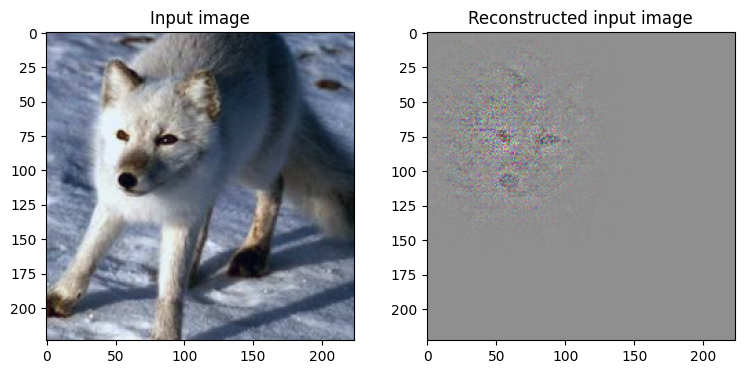
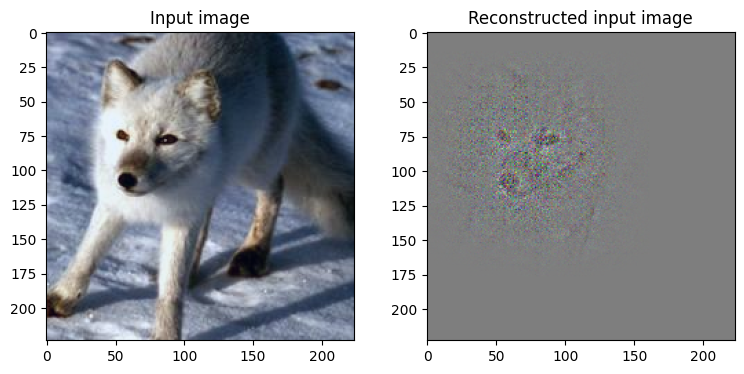
update

Changed region(s): [[0.5565, 0.1176, 0.8347, 0.6765]]

diff --git a/README.md b/README.md
@@ -4,4 +4,5 @@
 - Implementation: https://www.kaggle.com/code/thaimeuu/visualizing-zeiler-2013-implementation
 - Result:
 
+![text](images/dog1.png) ![text](images/dog2.png) ![text](images/dog3.png) ![text](images/dog4.png) ![text](images/dog5.png)
 ![alt text](images/bee1.png)![alt text](images/bee2.png)![alt text](images/bee3.png)![alt text](images/bee4.png)![alt text](images/bee5.png)